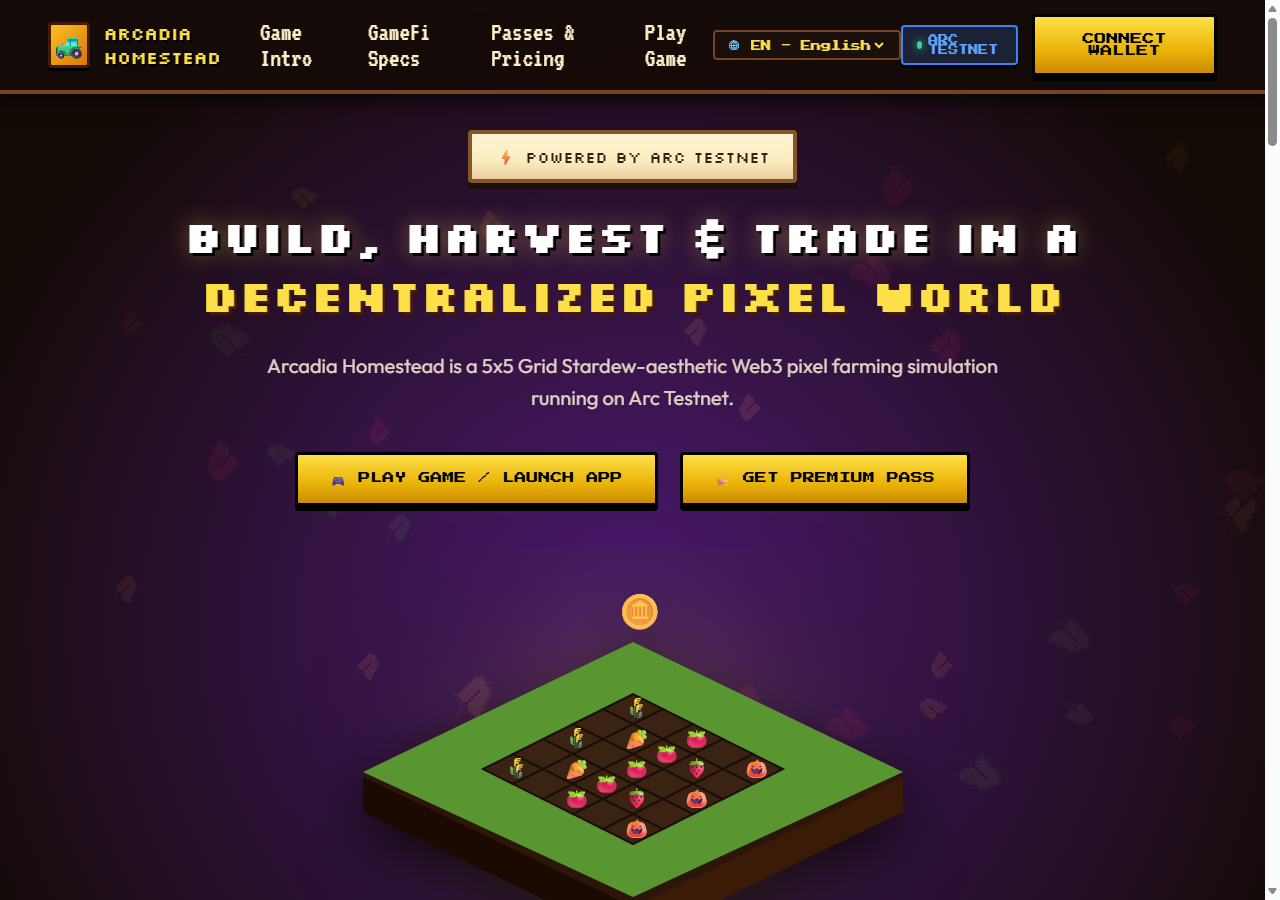
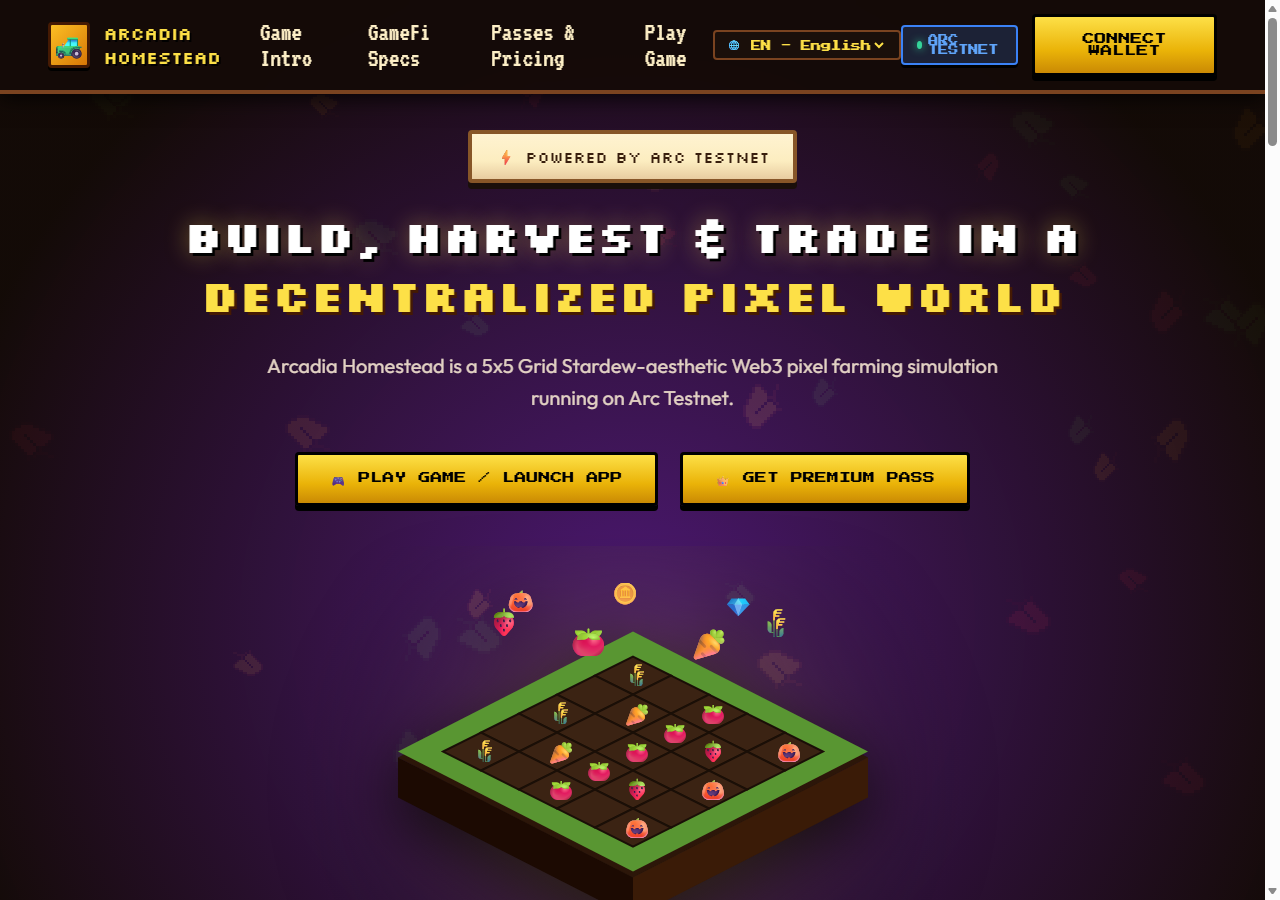
feat: Perfect 5x5 soil grid island alignment & dynamic floating harvest crop orbit

diff --git a/index.html b/index.html
@@ -420,7 +420,7 @@
       padding: 10px 18px; border-radius: 4px; box-shadow: 0 6px 16px rgba(0,0,0,0.5);
     }
 
-    .ready-count-badge { font-family: var(--font-pixel); font-size: 10px; color: #fff; display: flex; align-items: center; gap: 8px; }
+    .ready-count-badge { font-family: var(--font-pixel); font-size: 10px; color: #fff; display: flex; align-items: gap: 8px; }
 
     .end-day-btn {
       font-family: var(--font-pixel); font-size: 10px; padding: 10px 16px;
@@ -945,12 +945,13 @@
       renderGameWorld();
     }
 
-    /* PERFECTLY ALIGNED & BALANCED FLOATING ISOMETRIC HERO STAGE */
+    /* PERFECTLY ALIGNED & BALANCED FLOATING ISOMETRIC HERO STAGE WITH DYNAMIC HARVEST FLOATING ORBIT */
     function initHeroShowcase() {
       const hCanvas = document.getElementById('heroCanvas'); if (!hCanvas) return;
       const hCtx = hCanvas.getContext('2d'); hCtx.imageSmoothingEnabled = false;
 
       let tick = 0;
+      const floatingHarvests = ['🌾', '🥕', '🍅', '🍓', '🎃', '🪙', '💎'];
 
       function renderHeroFrame() {
         tick += 0.02;
@@ -958,57 +959,63 @@
 
         const floatY = Math.sin(tick) * 8;
 
-        const gradient = hCtx.createRadialGradient(360, 220 + floatY, 40, 360, 220 + floatY, 320);
-        gradient.addColorStop(0, 'rgba(253, 224, 71, 0.2)');
+        // Ambient radial glow background
+        const gradient = hCtx.createRadialGradient(360, 220 + floatY, 40, 360, 220 + floatY, 340);
+        gradient.addColorStop(0, 'rgba(253, 224, 71, 0.22)');
         gradient.addColorStop(1, 'rgba(0, 0, 0, 0)');
         hCtx.fillStyle = gradient;
         hCtx.fillRect(0, 0, 720, 440);
 
         const centerX = 360, centerY = 210 + floatY;
-        const tileW = 60, tileH = 30;
+        const tileW = 76, tileH = 38; // Increased tile size to fit top grass surface perfectly
 
+        // 1. Dirt Base Layer (Underneath Grass)
         hCtx.fillStyle = '#2c1609';
         hCtx.beginPath();
-        hCtx.moveTo(centerX, centerY - 110);
-        hCtx.lineTo(centerX + 270, centerY + 20);
-        hCtx.lineTo(centerX, centerY + 150);
-        hCtx.lineTo(centerX - 270, centerY + 20);
+        hCtx.moveTo(centerX, centerY - 120);
+        hCtx.lineTo(centerX + 235, centerY);
+        hCtx.lineTo(centerX, centerY + 120);
+        hCtx.lineTo(centerX - 235, centerY);
         hCtx.closePath();
         hCtx.fill();
 
+        // 2. Dirt 3D Side Walls
         hCtx.fillStyle = '#1c0a02';
         hCtx.beginPath();
-        hCtx.moveTo(centerX - 270, centerY + 20);
-        hCtx.lineTo(centerX, centerY + 150);
-        hCtx.lineTo(centerX, centerY + 185);
-        hCtx.lineTo(centerX - 270, centerY + 55);
+        hCtx.moveTo(centerX - 235, centerY);
+        hCtx.lineTo(centerX, centerY + 120);
+        hCtx.lineTo(centerX, centerY + 160);
+        hCtx.lineTo(centerX - 235, centerY + 40);
         hCtx.closePath();
         hCtx.fill();
 
         hCtx.fillStyle = '#3a1b07';
         hCtx.beginPath();
-        hCtx.moveTo(centerX + 270, centerY + 20);
-        hCtx.lineTo(centerX, centerY + 150);
-        hCtx.lineTo(centerX, centerY + 185);
-        hCtx.lineTo(centerX + 270, centerY + 55);
+        hCtx.moveTo(centerX + 235, centerY);
+        hCtx.lineTo(centerX, centerY + 120);
+        hCtx.lineTo(centerX, centerY + 160);
+        hCtx.lineTo(centerX + 235, centerY + 40);
         hCtx.closePath();
         hCtx.fill();
 
+        // 3. Grass Top Layer (Balanced Green Margin Around 5x5 Grid)
         hCtx.fillStyle = '#599632';
         hCtx.beginPath();
-        hCtx.moveTo(centerX, centerY - 115);
-        hCtx.lineTo(centerX + 270, centerY + 15);
-        hCtx.lineTo(centerX, centerY + 140);
-        hCtx.lineTo(centerX - 270, centerY + 15);
+        hCtx.moveTo(centerX, centerY - 126);
+        hCtx.lineTo(centerX + 235, centerY - 6);
+        hCtx.lineTo(centerX, centerY + 114);
+        hCtx.lineTo(centerX - 235, centerY - 6);
         hCtx.closePath();
         hCtx.fill();
 
+        // 4. PERFECT 5x5 ISOMETRIC GRID (Centering Math: Grid origin centered at (centerX, centerY - 6))
         const crops = ['🌾', '🥕', '🍅', '🍓', '🎃'];
         for (let r = 0; r < 5; r++) {
           for (let c = 0; c < 5; c++) {
             const isoX = centerX + (c - r) * (tileW / 2);
-            const isoY = centerY + 12 + (c + r - 4) * (tileH / 2);
+            const isoY = centerY - 6 + (c + r - 4) * (tileH / 2);
 
+            // Draw isometric dirt plot
             hCtx.fillStyle = '#3b2313';
             hCtx.beginPath();
             hCtx.moveTo(isoX, isoY - tileH / 2);
@@ -1020,18 +1027,29 @@
 
             hCtx.strokeStyle = '#1a0f07'; hCtx.lineWidth = 2; hCtx.stroke();
 
+            // Render crop icon cleanly centered inside each isometric polygon
             const idx = r * 5 + c;
             if (idx % 2 === 0 || idx === 7 || idx === 17) {
               const cropIcon = crops[idx % crops.length];
-              hCtx.font = '20px sans-serif';
-              hCtx.fillText(cropIcon, isoX - 10, isoY + 6);
+              hCtx.font = '22px sans-serif';
+              hCtx.fillText(cropIcon, isoX - 11, isoY + 7);
             }
           }
         }
 
-        const coinY = centerY - 135 + Math.sin(tick * 1.5) * 10;
-        hCtx.font = '36px "Press Start 2P"';
-        hCtx.fillText('🪙', centerX - 18, coinY);
+        // 5. DYNAMIC FLOATING HARVEST CROPS & COIN ORBIT ABOVE ISLAND!
+        const orbitR = 140;
+        for (let i = 0; i < floatingHarvests.length; i++) {
+          const angle = tick * 0.8 + (i * Math.PI * 2 / floatingHarvests.length);
+          const itemX = centerX + Math.cos(angle) * orbitR;
+          const itemY = centerY - 130 + Math.sin(angle) * 22 + Math.sin(tick * 2 + i) * 6;
+          const itemScale = 0.85 + (Math.sin(angle) + 1) * 0.2;
+
+          hCtx.save();
+          hCtx.font = `${Math.floor(26 * itemScale)}px "Press Start 2P", sans-serif`;
+          hCtx.fillText(floatingHarvests[i], itemX - 14, itemY);
+          hCtx.restore();
+        }
 
         requestAnimationFrame(renderHeroFrame);
       }

diff --git a/build_5x5_farm.py b/build_5x5_farm.py
@@ -420,7 +420,7 @@ html_content = """<!DOCTYPE html>
       padding: 10px 18px; border-radius: 4px; box-shadow: 0 6px 16px rgba(0,0,0,0.5);
     }
 
-    .ready-count-badge { font-family: var(--font-pixel); font-size: 10px; color: #fff; display: flex; align-items: center; gap: 8px; }
+    .ready-count-badge { font-family: var(--font-pixel); font-size: 10px; color: #fff; display: flex; align-items: gap: 8px; }
 
     .end-day-btn {
       font-family: var(--font-pixel); font-size: 10px; padding: 10px 16px;
@@ -945,12 +945,13 @@ html_content = """<!DOCTYPE html>
       renderGameWorld();
     }
 
-    /* PERFECTLY ALIGNED & BALANCED FLOATING ISOMETRIC HERO STAGE */
+    /* PERFECTLY ALIGNED & BALANCED FLOATING ISOMETRIC HERO STAGE WITH DYNAMIC HARVEST FLOATING ORBIT */
     function initHeroShowcase() {
       const hCanvas = document.getElementById('heroCanvas'); if (!hCanvas) return;
       const hCtx = hCanvas.getContext('2d'); hCtx.imageSmoothingEnabled = false;
 
       let tick = 0;
+      const floatingHarvests = ['🌾', '🥕', '🍅', '🍓', '🎃', '🪙', '💎'];
 
       function renderHeroFrame() {
         tick += 0.02;
@@ -958,57 +959,63 @@ html_content = """<!DOCTYPE html>
 
         const floatY = Math.sin(tick) * 8;
 
-        const gradient = hCtx.createRadialGradient(360, 220 + floatY, 40, 360, 220 + floatY, 320);
-        gradient.addColorStop(0, 'rgba(253, 224, 71, 0.2)');
+        // Ambient radial glow background
+        const gradient = hCtx.createRadialGradient(360, 220 + floatY, 40, 360, 220 + floatY, 340);
+        gradient.addColorStop(0, 'rgba(253, 224, 71, 0.22)');
         gradient.addColorStop(1, 'rgba(0, 0, 0, 0)');
         hCtx.fillStyle = gradient;
         hCtx.fillRect(0, 0, 720, 440);
 
         const centerX = 360, centerY = 210 + floatY;
-        const tileW = 60, tileH = 30;
+        const tileW = 76, tileH = 38; // Increased tile size to fit top grass surface perfectly
 
+        // 1. Dirt Base Layer (Underneath Grass)
         hCtx.fillStyle = '#2c1609';
         hCtx.beginPath();
-        hCtx.moveTo(centerX, centerY - 110);
-        hCtx.lineTo(centerX + 270, centerY + 20);
-        hCtx.lineTo(centerX, centerY + 150);
-        hCtx.lineTo(centerX - 270, centerY + 20);
+        hCtx.moveTo(centerX, centerY - 120);
+        hCtx.lineTo(centerX + 235, centerY);
+        hCtx.lineTo(centerX, centerY + 120);
+        hCtx.lineTo(centerX - 235, centerY);
         hCtx.closePath();
         hCtx.fill();
 
+        // 2. Dirt 3D Side Walls
         hCtx.fillStyle = '#1c0a02';
         hCtx.beginPath();
-        hCtx.moveTo(centerX - 270, centerY + 20);
-        hCtx.lineTo(centerX, centerY + 150);
-        hCtx.lineTo(centerX, centerY + 185);
-        hCtx.lineTo(centerX - 270, centerY + 55);
+        hCtx.moveTo(centerX - 235, centerY);
+        hCtx.lineTo(centerX, centerY + 120);
+        hCtx.lineTo(centerX, centerY + 160);
+        hCtx.lineTo(centerX - 235, centerY + 40);
         hCtx.closePath();
         hCtx.fill();
 
         hCtx.fillStyle = '#3a1b07';
         hCtx.beginPath();
-        hCtx.moveTo(centerX + 270, centerY + 20);
-        hCtx.lineTo(centerX, centerY + 150);
-        hCtx.lineTo(centerX, centerY + 185);
-        hCtx.lineTo(centerX + 270, centerY + 55);
+        hCtx.moveTo(centerX + 235, centerY);
+        hCtx.lineTo(centerX, centerY + 120);
+        hCtx.lineTo(centerX, centerY + 160);
+        hCtx.lineTo(centerX + 235, centerY + 40);
         hCtx.closePath();
         hCtx.fill();
 
+        // 3. Grass Top Layer (Balanced Green Margin Around 5x5 Grid)
         hCtx.fillStyle = '#599632';
         hCtx.beginPath();
-        hCtx.moveTo(centerX, centerY - 115);
-        hCtx.lineTo(centerX + 270, centerY + 15);
-        hCtx.lineTo(centerX, centerY + 140);
-        hCtx.lineTo(centerX - 270, centerY + 15);
+        hCtx.moveTo(centerX, centerY - 126);
+        hCtx.lineTo(centerX + 235, centerY - 6);
+        hCtx.lineTo(centerX, centerY + 114);
+        hCtx.lineTo(centerX - 235, centerY - 6);
         hCtx.closePath();
         hCtx.fill();
 
+        // 4. PERFECT 5x5 ISOMETRIC GRID (Centering Math: Grid origin centered at (centerX, centerY - 6))
         const crops = ['🌾', '🥕', '🍅', '🍓', '🎃'];
         for (let r = 0; r < 5; r++) {
           for (let c = 0; c < 5; c++) {
             const isoX = centerX + (c - r) * (tileW / 2);
-            const isoY = centerY + 12 + (c + r - 4) * (tileH / 2);
+            const isoY = centerY - 6 + (c + r - 4) * (tileH / 2);
 
+            // Draw isometric dirt plot
             hCtx.fillStyle = '#3b2313';
             hCtx.beginPath();
             hCtx.moveTo(isoX, isoY - tileH / 2);
@@ -1020,18 +1027,29 @@ html_content = """<!DOCTYPE html>
 
             hCtx.strokeStyle = '#1a0f07'; hCtx.lineWidth = 2; hCtx.stroke();
 
+            // Render crop icon cleanly centered inside each isometric polygon
             const idx = r * 5 + c;
             if (idx % 2 === 0 || idx === 7 || idx === 17) {
               const cropIcon = crops[idx % crops.length];
-              hCtx.font = '20px sans-serif';
-              hCtx.fillText(cropIcon, isoX - 10, isoY + 6);
+              hCtx.font = '22px sans-serif';
+              hCtx.fillText(cropIcon, isoX - 11, isoY + 7);
             }
           }
         }
 
-        const coinY = centerY - 135 + Math.sin(tick * 1.5) * 10;
-        hCtx.font = '36px "Press Start 2P"';
-        hCtx.fillText('🪙', centerX - 18, coinY);
+        // 5. DYNAMIC FLOATING HARVEST CROPS & COIN ORBIT ABOVE ISLAND!
+        const orbitR = 140;
+        for (let i = 0; i < floatingHarvests.length; i++) {
+          const angle = tick * 0.8 + (i * Math.PI * 2 / floatingHarvests.length);
+          const itemX = centerX + Math.cos(angle) * orbitR;
+          const itemY = centerY - 130 + Math.sin(angle) * 22 + Math.sin(tick * 2 + i) * 6;
+          const itemScale = 0.85 + (Math.sin(angle) + 1) * 0.2;
+
+          hCtx.save();
+          hCtx.font = `${Math.floor(26 * itemScale)}px "Press Start 2P", sans-serif`;
+          hCtx.fillText(floatingHarvests[i], itemX - 14, itemY);
+          hCtx.restore();
+        }
 
         requestAnimationFrame(renderHeroFrame);
       }
@@ -1759,4 +1777,4 @@ html_content = """<!DOCTYPE html>
 with open('index.html', 'w', encoding='utf-8') as f:
     f.write(html_content)
 
-print("DEFAULT LANGUAGE SET TO ENGLISH SUCCESSFULLY!")
+print("PERFECTLY ALIGNED ISOMETRIC SOIL GRID & DYNAMIC FLOATING HARVEST CROPS UPDATED SUCCESSFULLY!")
